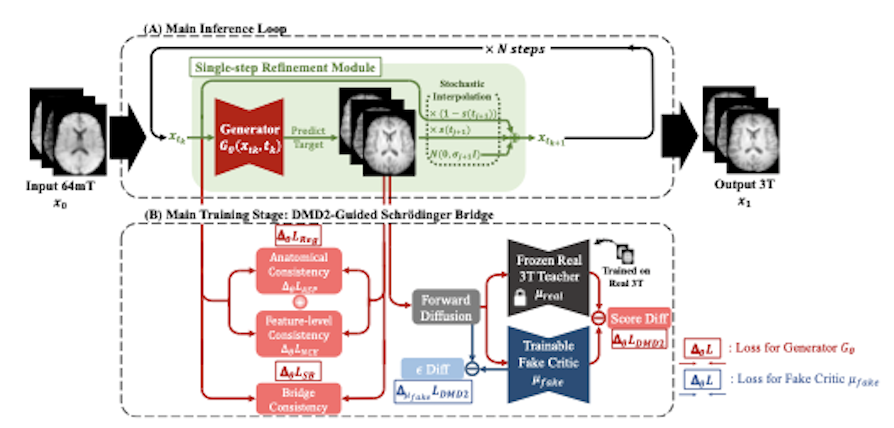
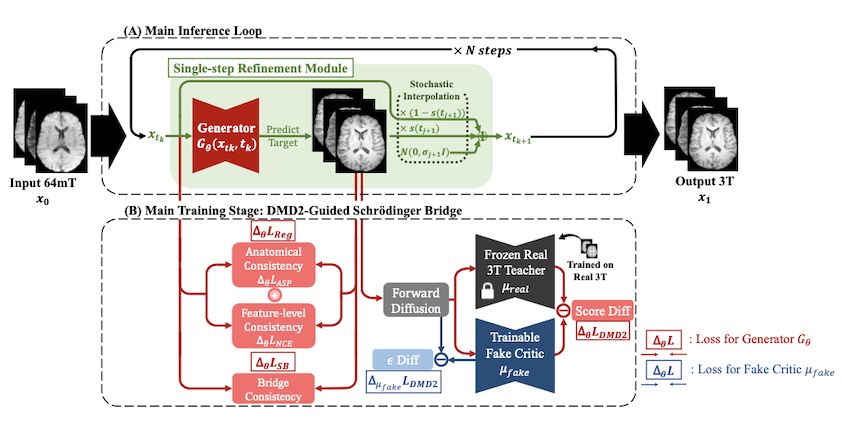
Add teasers for the Resfusion/RASN and Kubernetes papers
Two new figures from paper/, matched to entries by what they actually
show rather than by filename: ultra.png is the Resnoise-diffusion + RASN
architecture, kuber.png the microservice graph and inter-replica
communication.

dmd.png was re-exported at a different aspect ratio, so its declared
height moves 230 -> 244; leaving it stale would have reserved the wrong
box and shifted the row as the image loaded.

Four of five entries now carry a teaser, 76K total.

Changed region(s): [[0.0, 0.0304, 0.9881, 1.0]]

diff --git a/src/data/profile.ts b/src/data/profile.ts
@@ -91,7 +91,7 @@ export const publications: Publication[] = [
   {
     title:
       "DMD-augmented Unpaired Neural Schrödinger Bridge for Ultra-Low Field MRI Enhancement",
-    figure: { src: "/paper/dmd.webp", width: 480, height: 230 },
+    figure: { src: "/paper/dmd.webp", width: 480, height: 244 },
     authors: [
       "Youngmin Kim",
       "Jaeyun Shin",
@@ -110,6 +110,7 @@ export const publications: Publication[] = [
   {
     title:
       "Ultra-Low-Field Brain MRI Enhancement using Resfusion and Residual Artifact Suppression Network",
+    figure: { src: "/paper/ultra.webp", width: 480, height: 268 },
     authors: [
       "Youngmin Kim",
       "Jeongchan Kim",
@@ -125,6 +126,7 @@ export const publications: Publication[] = [
   {
     title:
       "Performance Analysis of Kubernetes Traffic Scheduling Algorithms in Homogeneous and Heterogeneous Environments",
+    figure: { src: "/paper/kuber.webp", width: 480, height: 351 },
     authors: ["Youngmin Kim", "Hogeon Park", "Heonchang Yu"],
     venue: "Korea Computer Congress (KCC)",
     year: "2025",
